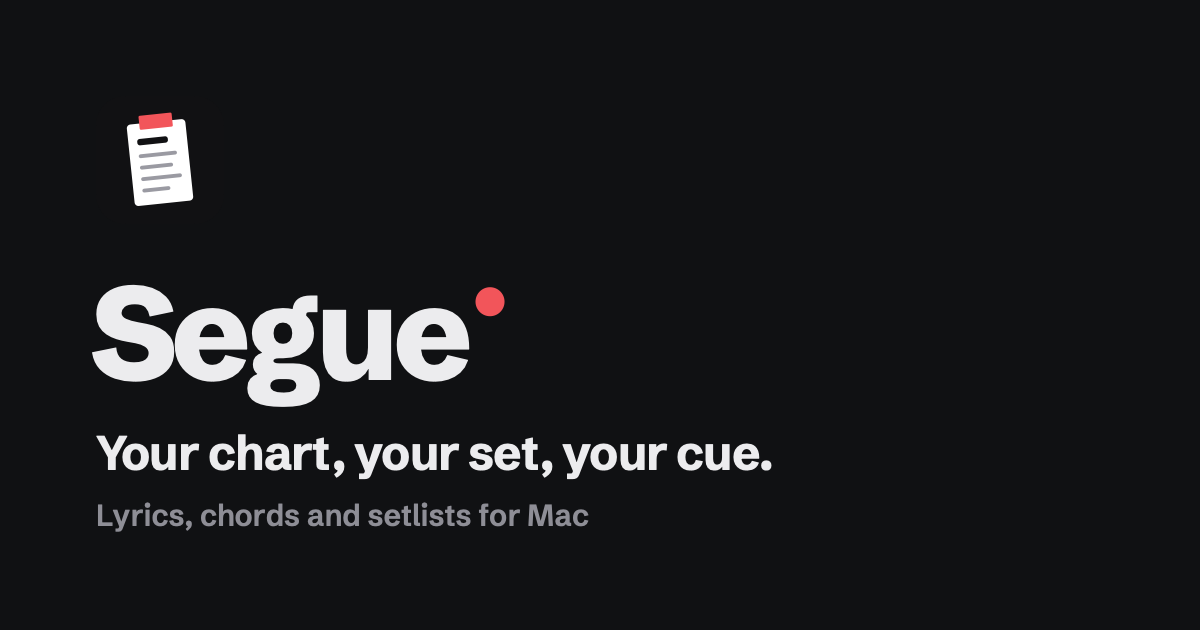
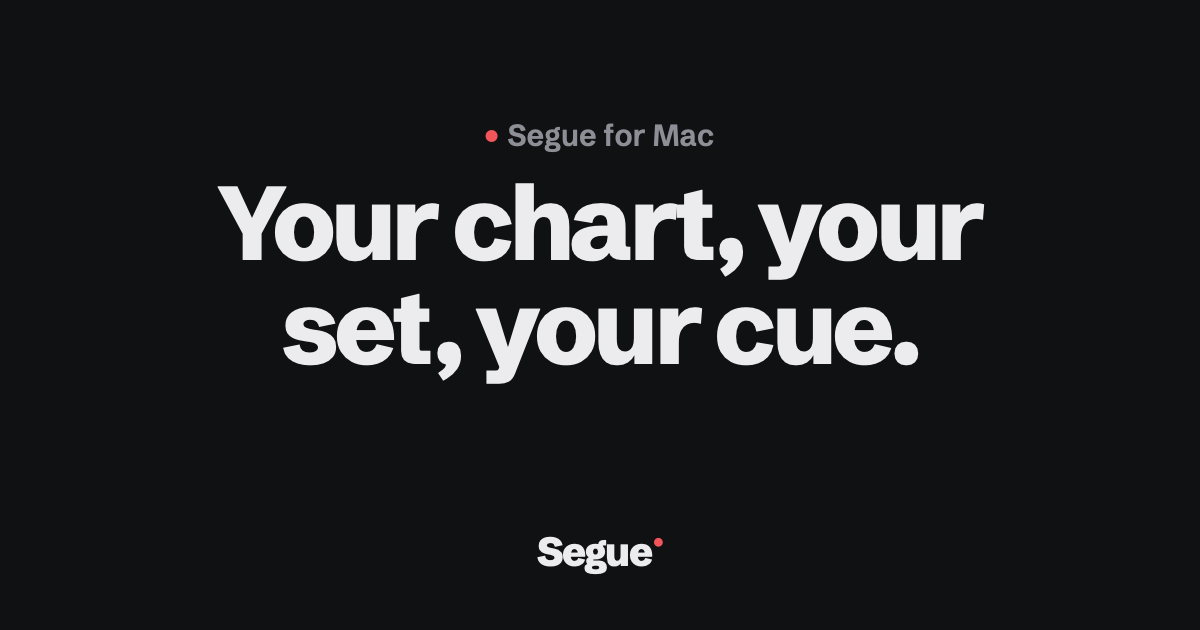
website: Stage-direction OG image and Apple's Mac App Store badge (WS4 step 7)
- --raster draws the Open Graph card in the Stage direction: centred "Segue for
  Mac" eyebrow with the cue dot, the tagline as a balanced two-line headline, and
  the wordmark at the foot. og:image:alt updated to match.
- website/assets/img/badge-mac-app-store-black.svg: Apple's black US English
  "Download on the Mac App Store" badge, unmodified, from Apple Media Services'
  badge API (the source behind the marketing toolbox). It shows only once
  appStore.status is live. In a scratch copy set to live, it renders 187x48 with
  clear space in the hero only.
- Screenshot JPEGs wait for the R10 set (WS5). Until then the home page keeps
  its marked placeholder frames.

diff --git a/scripts/gen-site.swift b/scripts/gen-site.swift
@@ -817,7 +817,7 @@ struct Renderer {
             ("property", "og:image", "\(origin)/assets/img/og.png"),
             ("property", "og:image:width", "1200"),
             ("property", "og:image:height", "630"),
-            ("property", "og:image:alt", "The Segue wordmark and app icon"),
+            ("property", "og:image:alt", "Segue for Mac: your chart, your set, your cue."),
             ("name", "twitter:card", "summary_large_image"),
         ]
         let lines = tags.map { kind, key, value in
@@ -1531,26 +1531,65 @@ func writeImage(_ context: CGContext, to path: String, type: CFString, quality: 
     print("gen-site: rendered website/\(path)")
 }
 
+func textWidth(_ text: String, font: CTFont, tracking: CGFloat = 0) -> CGFloat {
+    let attributes: [NSAttributedString.Key: Any] = [
+        NSAttributedString.Key(kCTFontAttributeName as String): font,
+        NSAttributedString.Key(kCTKernAttributeName as String): tracking * CTFontGetSize(font),
+    ]
+    let line = CTLineCreateWithAttributedString(
+        NSAttributedString(string: text, attributes: attributes),
+    )
+    return CGFloat(CTLineGetTypographicBounds(line, nil, nil, nil))
+}
+
+/// Splits `text` into two lines of as-equal-as-possible width.
+func balancedLines(_ text: String, font: CTFont, tracking: CGFloat) -> [String] {
+    let words = text.split(separator: " ").map(String.init)
+    guard words.count > 1 else { return [text] }
+    let splits = (1 ..< words.count).map { index in
+        [words[..<index].joined(separator: " "), words[index...].joined(separator: " ")]
+    }
+    return splits.min { lhs, rhs in
+        let left = lhs.map { textWidth($0, font: font, tracking: tracking) }.max() ?? 0
+        let right = rhs.map { textWidth($0, font: font, tracking: tracking) }.max() ?? 0
+        return left < right
+    } ?? [text]
+}
+
+/// The Open Graph card, in the site's Stage direction: centred eyebrow, the tagline as a
+/// big tight headline, and the wordmark at the foot.
 func renderOpenGraph(_ palette: Palette, tagline: String) throws {
-    let context = try bitmapContext(width: 1200, height: 630)
+    let (width, height): (CGFloat, CGFloat) = (1200, 630)
+    let context = try bitmapContext(width: Int(width), height: Int(height))
+    let ink = try palette.color("ink", dark: true)
+    let muted = try palette.color("muted", dark: true)
+    let cue = try palette.color("cue", dark: true)
     try context.setFillColor(palette.color("ground", dark: true))
-    context.fill(CGRect(x: 0, y: 0, width: 1200, height: 630))
-    try drawSVG(
-        "design/icon/master.svg",
-        in: CGRect(x: 96, y: 630 - 96 - 128, width: 128, height: 128),
-        context: context,
-    )
+    context.fill(CGRect(x: 0, y: 0, width: width, height: height))
+
+    let eyebrowFont = try font("SemiBold", 30)
+    let eyebrow = "Segue for Mac"
+    let eyebrowWidth = textWidth(eyebrow, font: eyebrowFont) + 22
+    let eyebrowX = (width - eyebrowWidth) / 2
+    context.setFillColor(cue)
+    context.fillEllipse(in: CGRect(x: eyebrowX, y: 488, width: 12, height: 12))
+    drawText(eyebrow, font: eyebrowFont, color: muted, x: eyebrowX + 22, y: 484, in: context)
+
+    let headline = try font("ExtraBold", 104)
+    let lines = balancedLines(tagline, font: headline, tracking: -0.045)
+    for (index, line) in lines.enumerated() {
+        let lineWidth = textWidth(line, font: headline, tracking: -0.045)
+        drawText(
+            line, font: headline, color: ink, tracking: -0.045, x: (width - lineWidth) / 2,
+            y: 370 - CGFloat(index) * 104, in: context,
+        )
+    }
+
+    let markSize: CGFloat = 40
+    let markWidth = try measureWordmark(size: markSize)
     try drawWordmark(
-        size: 132, x: 90, baseline: 250, word: palette.color("ink", dark: true),
-        dot: palette.color("cue", dark: true), in: context,
-    )
-    try drawText(
-        tagline, font: font("Bold", 48), color: palette.color("ink", dark: true), tracking: -0.02,
-        x: 96, y: 160, in: context,
-    )
-    try drawText(
-        "Lyrics, chords and setlists for Mac", font: font("SemiBold", 30),
-        color: palette.color("muted", dark: true), x: 96, y: 104, in: context,
+        size: markSize, x: (width - markWidth) / 2, baseline: 64, word: ink, dot: cue,
+        in: context,
     )
     try writeImage(context, to: "assets/img/og.png", type: "public.png" as CFString)
 }

diff --git a/website/index.html b/website/index.html
@@ -22,7 +22,7 @@
 <meta property="og:image" content="https://segue.ryandsilva.dev/assets/img/og.png">
 <meta property="og:image:width" content="1200">
 <meta property="og:image:height" content="630">
-<meta property="og:image:alt" content="The Segue wordmark and app icon">
+<meta property="og:image:alt" content="Segue for Mac: your chart, your set, your cue.">
 <meta name="twitter:card" content="summary_large_image">
 <!--/slot-->
 <script type="application/ld+json">

diff --git a/website/404.html b/website/404.html
@@ -22,7 +22,7 @@
 <meta property="og:image" content="https://segue.ryandsilva.dev/assets/img/og.png">
 <meta property="og:image:width" content="1200">
 <meta property="og:image:height" content="630">
-<meta property="og:image:alt" content="The Segue wordmark and app icon">
+<meta property="og:image:alt" content="Segue for Mac: your chart, your set, your cue.">
 <meta name="twitter:card" content="summary_large_image">
 <!--/slot-->
 </head>

diff --git a/website/acknowledgements.html b/website/acknowledgements.html
@@ -22,7 +22,7 @@
 <meta property="og:image" content="https://segue.ryandsilva.dev/assets/img/og.png">
 <meta property="og:image:width" content="1200">
 <meta property="og:image:height" content="630">
-<meta property="og:image:alt" content="The Segue wordmark and app icon">
+<meta property="og:image:alt" content="Segue for Mac: your chart, your set, your cue.">
 <meta name="twitter:card" content="summary_large_image">
 <!--/slot-->
 </head>

diff --git a/website/changelog.html b/website/changelog.html
@@ -23,7 +23,7 @@
 <meta property="og:image" content="https://segue.ryandsilva.dev/assets/img/og.png">
 <meta property="og:image:width" content="1200">
 <meta property="og:image:height" content="630">
-<meta property="og:image:alt" content="The Segue wordmark and app icon">
+<meta property="og:image:alt" content="Segue for Mac: your chart, your set, your cue.">
 <meta name="twitter:card" content="summary_large_image">
 <!--/slot-->
 </head>

diff --git a/website/help.html b/website/help.html
@@ -22,7 +22,7 @@
 <meta property="og:image" content="https://segue.ryandsilva.dev/assets/img/og.png">
 <meta property="og:image:width" content="1200">
 <meta property="og:image:height" content="630">
-<meta property="og:image:alt" content="The Segue wordmark and app icon">
+<meta property="og:image:alt" content="Segue for Mac: your chart, your set, your cue.">
 <meta name="twitter:card" content="summary_large_image">
 <!--/slot-->
 </head>

diff --git a/website/help/editor.html b/website/help/editor.html
@@ -22,7 +22,7 @@
 <meta property="og:image" content="https://segue.ryandsilva.dev/assets/img/og.png">
 <meta property="og:image:width" content="1200">
 <meta property="og:image:height" content="630">
-<meta property="og:image:alt" content="The Segue wordmark and app icon">
+<meta property="og:image:alt" content="Segue for Mac: your chart, your set, your cue.">
 <meta name="twitter:card" content="summary_large_image">
 <!--/slot-->
 </head>

diff --git a/website/help/import.html b/website/help/import.html
@@ -22,7 +22,7 @@
 <meta property="og:image" content="https://segue.ryandsilva.dev/assets/img/og.png">
 <meta property="og:image:width" content="1200">
 <meta property="og:image:height" content="630">
-<meta property="og:image:alt" content="The Segue wordmark and app icon">
+<meta property="og:image:alt" content="Segue for Mac: your chart, your set, your cue.">
 <meta name="twitter:card" content="summary_large_image">
 <!--/slot-->
 </head>

diff --git a/website/help/keyboard.html b/website/help/keyboard.html
@@ -22,7 +22,7 @@
 <meta property="og:image" content="https://segue.ryandsilva.dev/assets/img/og.png">
 <meta property="og:image:width" content="1200">
 <meta property="og:image:height" content="630">
-<meta property="og:image:alt" content="The Segue wordmark and app icon">
+<meta property="og:image:alt" content="Segue for Mac: your chart, your set, your cue.">
 <meta name="twitter:card" content="summary_large_image">
 <!--/slot-->
 </head>

diff --git a/website/help/library.html b/website/help/library.html
@@ -22,7 +22,7 @@
 <meta property="og:image" content="https://segue.ryandsilva.dev/assets/img/og.png">
 <meta property="og:image:width" content="1200">
 <meta property="og:image:height" content="630">
-<meta property="og:image:alt" content="The Segue wordmark and app icon">
+<meta property="og:image:alt" content="Segue for Mac: your chart, your set, your cue.">
 <meta name="twitter:card" content="summary_large_image">
 <!--/slot-->
 </head>

diff --git a/website/help/live.html b/website/help/live.html
@@ -22,7 +22,7 @@
 <meta property="og:image" content="https://segue.ryandsilva.dev/assets/img/og.png">
 <meta property="og:image:width" content="1200">
 <meta property="og:image:height" content="630">
-<meta property="og:image:alt" content="The Segue wordmark and app icon">
+<meta property="og:image:alt" content="Segue for Mac: your chart, your set, your cue.">
 <meta name="twitter:card" content="summary_large_image">
 <!--/slot-->
 </head>

diff --git a/website/help/setlists.html b/website/help/setlists.html
@@ -22,7 +22,7 @@
 <meta property="og:image" content="https://segue.ryandsilva.dev/assets/img/og.png">
 <meta property="og:image:width" content="1200">
 <meta property="og:image:height" content="630">
-<meta property="og:image:alt" content="The Segue wordmark and app icon">
+<meta property="og:image:alt" content="Segue for Mac: your chart, your set, your cue.">
 <meta name="twitter:card" content="summary_large_image">
 <!--/slot-->
 </head>
